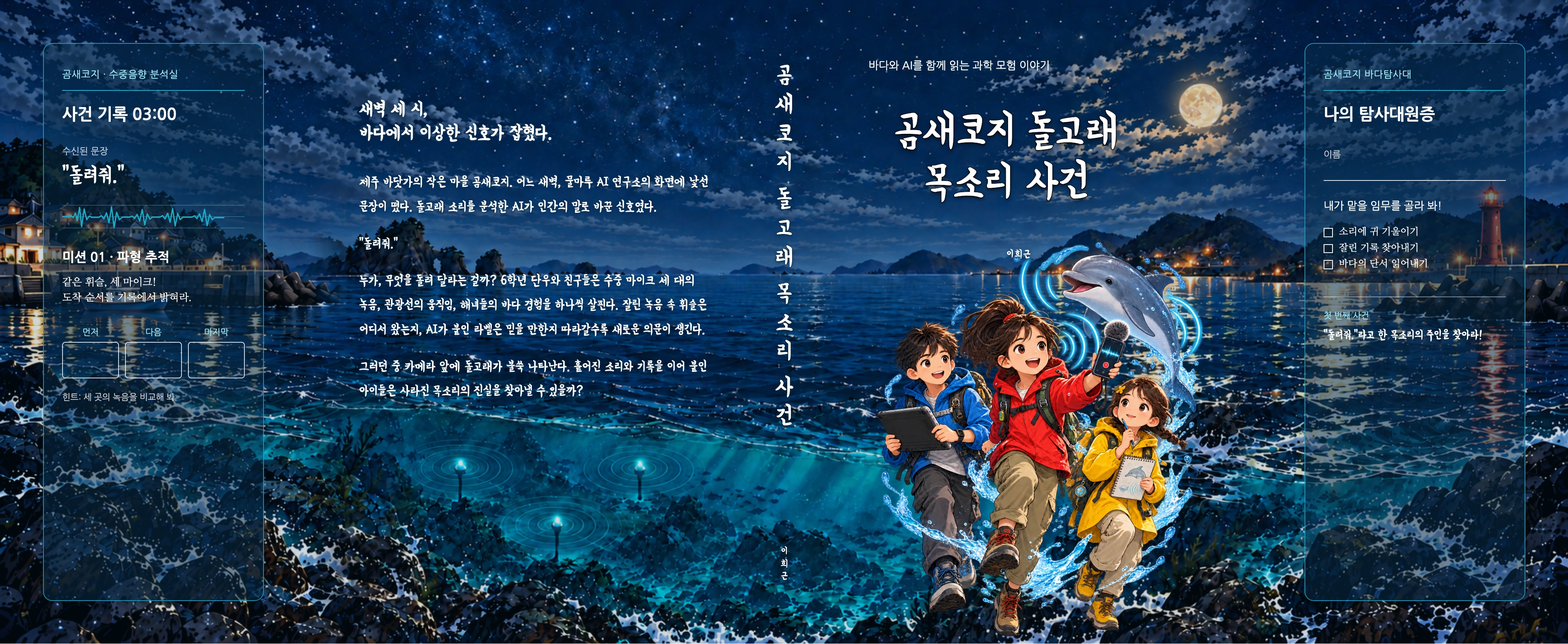
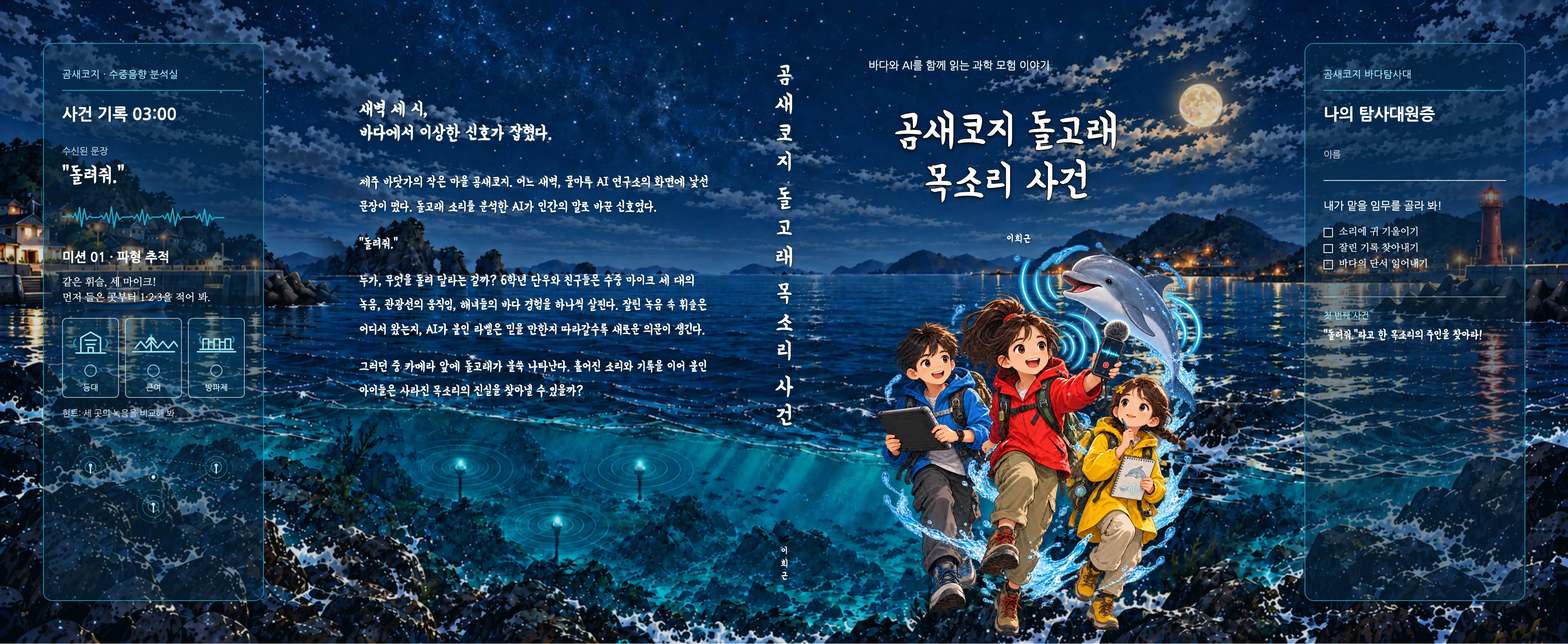
Clarify flap sound-tracking mission

diff --git a/book/cover/cover-spread.html b/book/cover/cover-spread.html
@@ -19,11 +19,14 @@ body{font-family:"Nanum Gothic","Noto Sans CJK KR","Apple SD Gothic Neo",sans-se
 .flap .quote{font-family:"BM Yeonsung","배달의민족 연성",sans-serif;font-size:20pt;line-height:1.3;margin:0 0 2mm}
 .flap .signal{display:block;width:100%;height:13mm;margin:0 0 4mm}
 .flap h3{font-family:"Nanum Gothic","Apple SD Gothic Neo",sans-serif;font-size:12pt;line-height:1.3;margin:0 0 3mm}
-.flap .challenge{font-family:"Nanum Myeongjo",serif;font-size:9.5pt;line-height:1.5;margin:0 0 7mm}
-.flap .slots{display:flex;gap:2mm;margin-top:0}
-.flap .slot{flex:1;text-align:center;color:#9be7f3;font-size:8pt}
-.flap .slot i{display:block;height:12mm;border:.3mm solid rgba(255,255,255,.82);border-radius:1mm;margin-top:1.5mm}
-.flap .hint{font-size:8pt;line-height:1.4;color:rgba(255,255,255,.78);margin-top:4mm}
+.flap .challenge{font-family:"Nanum Myeongjo",serif;font-size:9.5pt;line-height:1.5;margin:0 0 4mm}
+.flap .sites{display:flex;gap:2mm}
+.flap .site{flex:1;min-width:0;text-align:center;padding:2mm 1mm 1.5mm;border:.3mm solid rgba(255,255,255,.62);border-radius:1.5mm;background:rgba(7,80,112,.28)}
+.flap .site svg{display:block;width:100%;height:12mm;margin:0 auto 1mm}
+.flap .site-name{font-size:7.5pt;line-height:1.2;white-space:nowrap;color:#d8f8fb}
+.flap .order{display:inline-flex;width:4mm;height:4mm;align-items:center;justify-content:center;border:.3mm solid #9be7f3;border-radius:50%;color:#9be7f3;font-size:6.5pt;line-height:1;margin-bottom:1mm}
+.flap .hint{font-size:8pt;line-height:1.4;color:rgba(255,255,255,.78);margin-top:3mm}
+.flap .sonar-map{display:block;width:100%;height:37mm;margin-top:2mm}
 .flap .name-label{font-size:8.5pt;color:rgba(255,255,255,.74);margin-top:8mm}
 .flap .name-line{height:7mm;border-bottom:.3mm solid rgba(255,255,255,.85);margin-bottom:6mm}
 .flap .role-title{font-family:"Nanum Gothic","Apple SD Gothic Neo",sans-serif;font-size:10pt;margin:0 0 4mm}
@@ -42,7 +45,7 @@ body{font-family:"Nanum Gothic","Noto Sans CJK KR","Apple SD Gothic Neo",sans-se
 .spine-author{bottom:20mm;font-size:9.5pt;line-height:1.15}
 .front{overflow:hidden;text-align:center;color:#fff}
 .front h1{position:absolute;z-index:4;top:35mm;left:-2mm;right:16mm;margin:0;font-family:"BM Yeonsung","배달의민족 연성",sans-serif;font-size:40.8pt;line-height:1.16;font-weight:400;letter-spacing:0;-webkit-text-stroke:2px #000;paint-order:stroke fill;text-shadow:0 2px 5px rgba(0,0,0,.68)}
-.front .author{position:absolute;z-index:3;top:81mm;left:51mm;width:36mm;font-family:"BM Yeonsung","배달의민족 연성",sans-serif;font-size:10pt;letter-spacing:.08em;text-shadow:0 1px 4px #062b4a}
+.front .author{position:absolute;z-index:3;top:76mm;left:51mm;width:36mm;font-family:"BM Yeonsung","배달의민족 연성",sans-serif;font-size:10pt;letter-spacing:.08em;text-shadow:0 1px 4px #062b4a}
 .front .tagline{position:absolute;z-index:3;top:19mm;left:20mm;right:-2mm;text-align:left;font-family:"Malgun Gothic","맑은 고딕","Nanum Gothic","Apple SD Gothic Neo",sans-serif;font-size:10pt;line-height:1.25;text-shadow:0 1px 4px #062b4a}
 .front .kids{position:absolute;z-index:2;width:109.6mm;left:19.2mm;bottom:1mm}
 </style>
@@ -57,17 +60,28 @@ body{font-family:"Nanum Gothic","Noto Sans CJK KR","Apple SD Gothic Neo",sans-se
       <div class="label">수신된 문장</div>
       <div class="quote">“돌려줘.”</div>
       <svg class="signal" viewBox="0 0 720 130" aria-hidden="true">
-        <path d="M0 65H720M0 20H720M0 110H720" fill="none" stroke="rgba(155,231,243,.38)" stroke-width="2"/>
         <path d="M0 65h28l8-4 8 8 8-18 8 29 9-51 8 76 10-70 10 42 10-14 10 5h28l10-7 10 13 10-24 10 39 10-63 10 83 10-61 11 29 12-10h28l10-4 10 9 10-16 10 27 10-46 10 61 10-44 10 21 10-8h30l10-6 10 13 10-22 10 35 10-54 10 69 10-50 10 25 10-10h36l10-5 10 11 10-19 10 31 10-49 10 65 10-44 10 20 10-8h38" fill="none" stroke="#16aeca" stroke-width="5" stroke-linejoin="round"/>
       </svg>
       <h3>미션 01 · 파형 추적</h3>
-      <p class="challenge">같은 휘슬, 세 마이크!<br>도착 순서를 기록에서 밝혀라.</p>
-      <div class="slots">
-        <div class="slot">먼저<i></i></div>
-        <div class="slot">다음<i></i></div>
-        <div class="slot">마지막<i></i></div>
+      <p class="challenge">같은 휘슬, 세 마이크!<br>먼저 들은 곳부터 1·2·3을 적어 봐.</p>
+      <div class="sites">
+        <div class="site"><svg viewBox="0 0 80 48" aria-hidden="true"><path d="M16 40h48M24 40V15l16-9 16 9v25M31 19h18M33 26h14M36 40V31h8v9" fill="none" stroke="#9be7f3" stroke-width="2.5" stroke-linecap="round" stroke-linejoin="round"/><path d="M16 17q-7 7 0 14M64 17q7 7 0 14" fill="none" stroke="#16aeca" stroke-width="2"/></svg><span class="order"></span><div class="site-name">등대</div></div>
+        <div class="site"><svg viewBox="0 0 80 48" aria-hidden="true"><path d="M6 38h68M10 32l9-11 9 11 9-11 9 11 9-11 9 11 9-11 7 9M36 38V13M31 18q5-7 10 0M28 23q8-12 16 0" fill="none" stroke="#9be7f3" stroke-width="2.5" stroke-linecap="round" stroke-linejoin="round"/><circle cx="36" cy="11" r="2" fill="#16aeca"/></svg><span class="order"></span><div class="site-name">큰여</div></div>
+        <div class="site"><svg viewBox="0 0 80 48" aria-hidden="true"><path d="M8 38h64M12 34h56M18 34V17h9v17M27 34V22h9v12M36 34V17h9v17M45 34V22h9v12M54 34V17h9v17" fill="none" stroke="#9be7f3" stroke-width="2.5" stroke-linejoin="round"/><path d="M15 13q-5 5 0 10M66 13q5 5 0 10" fill="none" stroke="#16aeca" stroke-width="2"/></svg><span class="order"></span><div class="site-name">방파제</div></div>
       </div>
       <div class="hint">힌트: 세 곳의 녹음을 비교해 봐.</div>
+      <svg class="sonar-map" viewBox="0 0 720 300" aria-label="세 수중 마이크의 신호를 잇는 음향 탐사도">
+        <path d="M112 91L360 54 608 91 360 245Z" fill="rgba(22,174,202,.06)" stroke="rgba(155,231,243,.5)" stroke-width="3" stroke-dasharray="7 9"/>
+        <path d="M112 91Q360 8 608 91M112 91Q360 174 608 91M360 54Q272 153 360 245M360 54Q448 153 360 245" fill="none" stroke="rgba(22,174,202,.27)" stroke-width="2"/>
+        <g fill="none" stroke="#16aeca" stroke-width="3">
+          <circle cx="112" cy="91" r="21" opacity=".9"/><circle cx="112" cy="91" r="43" opacity=".55"/><circle cx="112" cy="91" r="65" opacity=".28"/>
+          <circle cx="608" cy="91" r="21" opacity=".9"/><circle cx="608" cy="91" r="43" opacity=".55"/><circle cx="608" cy="91" r="65" opacity=".28"/>
+          <circle cx="360" cy="245" r="21" opacity=".9"/><circle cx="360" cy="245" r="43" opacity=".55"/><circle cx="360" cy="245" r="65" opacity=".28"/>
+        </g>
+        <g stroke="#d8f8fb" stroke-width="5" stroke-linecap="round"><path d="M112 87v28M608 87v28M360 241v28"/></g>
+        <g fill="#9be7f3"><circle cx="112" cy="83" r="7"/><circle cx="608" cy="83" r="7"/><circle cx="360" cy="237" r="7"/></g>
+        <circle cx="360" cy="130" r="7" fill="#fff"/><circle cx="360" cy="130" r="18" fill="none" stroke="rgba(255,255,255,.55)" stroke-width="2"/>
+      </svg>
     </div>
   </section>
   <div class="core">

diff --git a/docs/index.html b/docs/index.html
@@ -24,7 +24,7 @@
     <div class="top"><div class="brand">GOMSAEKOJI · BOOK PROJECT</div><span class="private">공개 저장소 · 출간 준비 대시보드</span></div>
     <header class="hero">
       <div class="intro"><div class="eyebrow">기획 · 원고 · 조판 · 출간</div><h1>곰새코지<br>돌고래 목소리 사건</h1><p>제주 바닷마을의 아이들이 돌고래 소리와 AI가 남긴 수수께끼를 좇는 초등 고학년 과학 모험 동화. 기획부터 출간 준비까지 현재 결정과 결과물을 모아 관리합니다.</p></div>
-      <div class="cover"><a href="https://github.com/heekeunlee/dolphin_voice_mystery/blob/main/book/cover/cover-spread-v12-preview.png"><img src="cover-preview.jpg" alt="탐사 미션과 탐사대원증이 들어간 최신 표지 펼침 미리보기"><span>최신 표지 펼침 · v12</span></a></div>
+      <div class="cover"><a href="https://github.com/heekeunlee/dolphin_voice_mystery/blob/main/book/cover/cover-spread-v13-preview.png"><img src="cover-preview.jpg" alt="세 지점의 수중음향 미션과 탐사대원증을 담은 최신 표지 펼침 미리보기"><span>최신 표지 펼침 · v13</span></a></div>
     </header>
     <div class="metrics" aria-label="프로젝트 현황">
       <div class="metric"><b>9장</b><span>출판본 구성 · 집필 단위 17개 통합</span></div>
@@ -61,7 +61,7 @@
       <div class="files">
         <article class="card"><a href="https://github.com/heekeunlee/dolphin_voice_mystery/blob/main/book/_output/dolphin-said-proof.pdf">내지 교정 PDF</a><p>229쪽 · A5 · 표지 펼침 미포함</p><span class="badge">2026-10-09 재조판</span></article>
         <article class="card"><a href="https://github.com/heekeunlee/dolphin_voice_mystery/blob/main/book/_output/dolphin-said-proof.epub">EPUB 교정본</a><p>전자책 구조·목차 확인용</p><span class="badge">2026-10-09 재생성</span></article>
-        <article class="card"><a href="https://github.com/heekeunlee/dolphin_voice_mystery/blob/main/book/cover/cover-spread-v12-preview.png">표지 전체 펼침 미리보기</a><p>양쪽 날개에 수중음향 로그 미션과 독자 탐사대원증 포함</p><span class="badge">v12 · 전체 시안</span></article>
+        <article class="card"><a href="https://github.com/heekeunlee/dolphin_voice_mystery/blob/main/book/cover/cover-spread-v13-preview.png">표지 전체 펼침 미리보기</a><p>등대·큰여·방파제의 파형 순서를 맞추는 미션, 하단 음향 탐사도, 독자 탐사대원증</p><span class="badge">v13 · 전체 시안</span></article>
         <article class="card"><a href="https://github.com/heekeunlee/dolphin_voice_mystery/blob/main/book/images/cover-wrap-panorama-v11.png">표지 배경 원본</a><p>타이포그래피를 얹기 전의 글자 없는 배경 그림</p></article>
       </div>
     </section>
@@ -76,7 +76,7 @@
     <section>
       <div class="section-head"><h2>최근 결정과 업데이트</h2><p>세부 근거는 각 날짜별 기획·검토 문서에 보관</p></div>
       <div class="panel timeline">
-        <div class="event"><div class="date">10월 10일</div><p>양쪽 날개를 독자 참여형 탐사 미션으로 개편<small>수중음향 로그와 탐사대원증으로 구성, 작가 이력 대신 작품의 질문을 중심에 둠</small></p></div>
+        <div class="event"><div class="date">10월 10일</div><p>날개 탐사 미션과 앞표지 저자명 위치 수정<small>답안칸을 등대·큰여·방파제 카드로 명확히 하고, 아래 여백에 세 수중 마이크의 상징 음향망을 추가. 저자명은 위로 5mm 이동</small></p></div>
         <div class="event"><div class="date">10월 9일</div><p>표지 파노라마 v11 및 글자 포함 펼침 미리보기 제작<small>접힘 경계의 해안선·수평선·구름·바닷속 연결을 조정</small></p></div>
         <div class="event"><div class="date">10월 9일</div><p>『시간 고양이』 실측 기준으로 본문 조판을 명시·재확인<small>명조 계열, 19행, 양끝맞춤, 22.7pt 행간, A5 여백</small></p></div>
         <div class="event"><div class="date">10월 9일</div><p>229쪽 내지 PDF와 EPUB 재조판<small>내지 교정쇄로, 표지 펼침은 별도</small></p></div>

diff --git a/book/cover/cover-spread.tex b/book/cover/cover-spread.tex
@@ -41,18 +41,32 @@
   \node[anchor=north west,text=white,align=left,text width=74mm] at (15,84)
     {\normalfont\fontsize{9.5pt}{14pt}\selectfont
     같은 휘슬, 세 마이크!\par
-    도착 순서를 기록에서 밝혀라.};
-  \node[anchor=north west,text=cyansea!30!white,align=left,text width=74mm] at (15,57)
-    {\sffamily\bfseries\fontsize{8pt}{11pt}\selectfont 먼저};
-  \node[anchor=north west,text=cyansea!30!white,align=left,text width=74mm] at (40,57)
-    {\sffamily\bfseries\fontsize{8pt}{11pt}\selectfont 다음};
-  \node[anchor=north west,text=cyansea!30!white,align=left,text width=74mm] at (65,57)
-    {\sffamily\bfseries\fontsize{8pt}{11pt}\selectfont 마지막};
-  \draw[white!80,line width=.5pt,rounded corners=1mm] (15,39) rectangle (35,51);
-  \draw[white!80,line width=.5pt,rounded corners=1mm] (40,39) rectangle (60,51);
-  \draw[white!80,line width=.5pt,rounded corners=1mm] (65,39) rectangle (86,51);
-  \node[anchor=south west,text=white!75,align=left,text width=74mm] at (15,22)
+    먼저 들은 곳부터 1·2·3을 적어 봐.};
+  % 장소를 명시해 답안칸의 목적이 한눈에 보이도록 구성
+  \foreach \x/\cx/\site in {15/25.5/등대,40/50.5/큰여,65/75.5/방파제} {
+    \draw[white!55,line width=.45pt,rounded corners=1mm,fill=deepsea,opacity=.32] (\x,52) rectangle +(21,20);
+    \draw[white!80,line width=.45pt] (\cx,67) circle (2.4mm);
+    \node[anchor=center,text=cyansea!25!white] at (\cx,67)
+      {\sffamily\fontsize{6.5pt}{7pt}\selectfont};
+    \node[anchor=north,text=white,align=center] at (\cx,62)
+      {\sffamily\fontsize{8pt}{10pt}\selectfont \site};
+  }
+  \node[anchor=north west,text=white!75,align=left,text width=74mm] at (15,47)
     {\sffamily\fontsize{8pt}{11pt}\selectfont 힌트: 세 곳의 녹음을 비교해 봐.};
+  % 장식용 음향망: 세 지점에서 온 파형을 잇는 상징도이며 실제 축척 지도 아님
+  \draw[cyansea!45,densely dashed,line width=.55pt] (25,32) -- (50.5,36) -- (76,32) -- cycle;
+  \draw[cyansea!25,line width=.4pt] (25,32) circle (5mm);
+  \draw[cyansea!42,line width=.45pt] (25,32) circle (3.2mm);
+  \draw[cyansea!25,line width=.4pt] (76,32) circle (5mm);
+  \draw[cyansea!42,line width=.45pt] (76,32) circle (3.2mm);
+  \draw[cyansea!25,line width=.4pt] (50.5,21) circle (5mm);
+  \draw[cyansea!42,line width=.45pt] (50.5,21) circle (3.2mm);
+  \foreach \x/\y/\yb/\yt in {25/32/27/33,76/32/27/33,50.5/21/16/22} {
+    \draw[white!85,line width=.8pt,rounded corners=.5mm] (\x,\yb) -- (\x,\yt);
+    \fill[cyansea] (\x,\yt) circle (1mm);
+  }
+  \fill[white] (50.5,31) circle (1mm);
+  \draw[white!55,line width=.4pt] (50.5,31) circle (2.5mm);
 
   % 뒷표지 문구
   \node[anchor=north west,text=white,align=left,text width=112mm] at (117,178)
@@ -90,7 +104,7 @@
     {\coverdisplay\fontsize{40.8pt}{47pt}\selectfont
       \contour{black}{곰새코지 돌고래}\par
       \contour{black}{목소리 사건}};
-  \node[anchor=north,text=white,align=center] at (342,127)
+  \node[anchor=north,text=white,align=center] at (342,132)
     {\coverdisplay\addfontfeatures{LetterSpace=8}\fontsize{10pt}{13pt}\selectfont 이희근};
 
   % 오른쪽 날개: 아이가 직접 이름을 적고 역할을 고르는 탐사대원증

diff --git a/PUBLISHING_STATUS.md b/PUBLISHING_STATUS.md
@@ -11,7 +11,7 @@
 - 구성: 17개 집필 단위를 9개 출판 장으로 통합. 원래 소제목과 삽화는 이야기 흐름 안에 보존.
 - 내지: A5, 나눔명조 본문, 나눔고딕 제목, 화면·메시지 상자는 별도 스타일.
 - 최신 조판 산출물: `book/_output/dolphin-said-proof.pdf` (229쪽)와 EPUB. 표지 펼침은 별도 제작물.
-- 표지: 배경 파노라마 v11 유지. 2026-10-10 양쪽 날개를 수중음향 분석 로그·탐사대원증으로 재구성한 시안 v12를 제작. 표지 펼침은 미리보기이며 POD 최종 판형/책등 템플릿 적용 전.
+- 표지: 배경 파노라마 v11 유지. 시안 v13에서 왼쪽 날개 미션을 등대·큰여·방파제별 순서 답안 카드와 세 수중 마이크의 상징 음향망으로 개선하고, 앞표지 저자명을 위로 5mm 이동. 표지 펼침은 미리보기이며 POD 최종 판형/책등 템플릿 적용 전.
 - GitHub: 공개 저장소 `https://github.com/heekeunlee/dolphin_voice_mystery`; 출판 관리 대시보드 `https://heekeunlee.github.io/dolphin_voice_mystery/` (Pages 빌드 확인 대기).
 - 기획상 출간 목표: 2027년 3월 하순. 계획 가격은 종이책 14,000원, 전자책 9,800원이며 확정 판매정보는 아님.
 - 유통 검토: 교보 POD, 국내 전자책, Google Play, Amazon KDP.
@@ -26,6 +26,7 @@
 | 2026-10-08 | 원고 17개 단위를 9개 장으로 통합하고 차례·장 제목·삽화 배치를 갱신 |
 | 2026-10-09 | 표지 파노라마 확장과 접힘 경계 개선. 배경 v11, 텍스트 포함 펼침 시안 v11 생성 |
 | 2026-10-10 | 양쪽 날개를 독자 참여형 수사 소품으로 교체: 세 마이크 신호 순서 미션, 이름·역할을 적는 탐사대원증. 이력·수상 경력은 꾸미지 않고 미사용 |
+| 2026-10-10 | 왼쪽 날개 답안칸에 장소(등대·큰여·방파제)를 표시하고 하단 여백에 축척이 아닌 상징 음향망을 추가. 앞표지 저자명을 위로 5mm 이동 |
 | 2026-10-09 | 『시간 고양이』 미리보기 실측을 기준으로 본문 명조·19행·양끝맞춤·행간과 A5 여백을 명시하고 재조판 |
 
 ## 다음 단계

diff --git a/README.md b/README.md
@@ -11,7 +11,7 @@
 
 - 최신 내지 교정 PDF: `book/_output/dolphin-said-proof.pdf` (229쪽, 표지 펼침 별도)
 - EPUB: `book/_output/dolphin-said-proof.epub`
-- 최신 표지 펼침 미리보기: `book/cover/cover-spread-v12-preview.png`
+- 최신 표지 펼침 미리보기: `book/cover/cover-spread-v13-preview.png`
 - 표지 배경 원본: `book/images/cover-wrap-panorama-v11.png`
 
 ## 다시 조판하기
